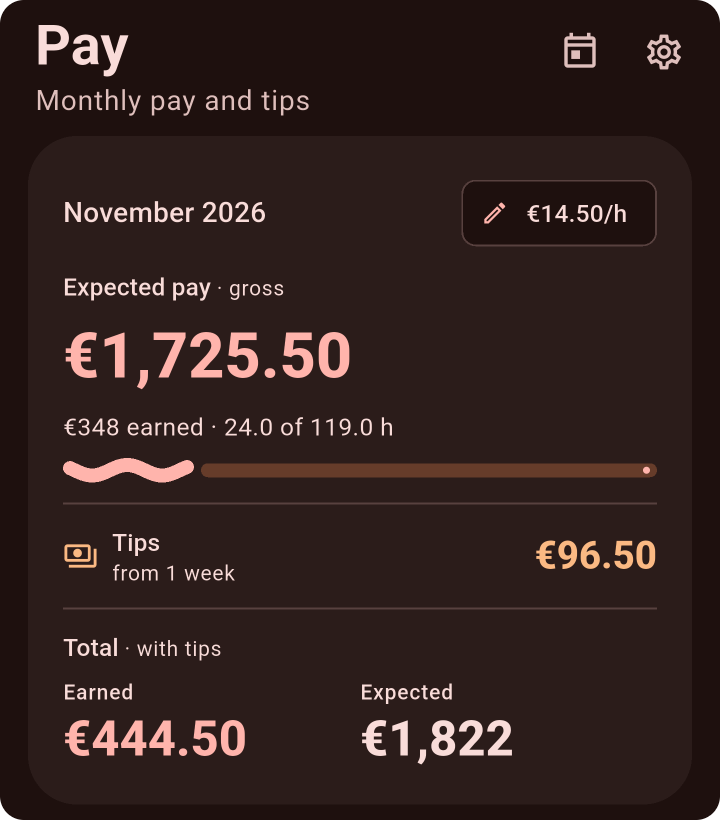
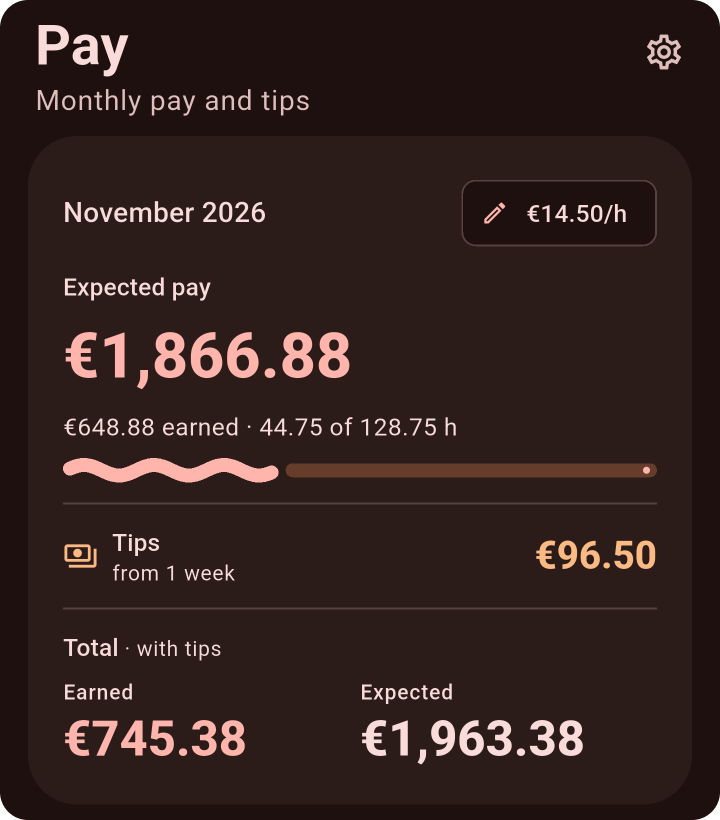
Docs: Refresh the README screenshots and texts for 1.8.1
All README screenshots were retaken on the emulator with 1.8.1 and new
demo data (this week, a running evening recording, a filled team week).
The shared plan picture is now the PNG the app shares rather than a
screenshot of the preview. A new screenshot shows "Hours per month".

The texts gain what 1.7.0 and 1.8.1 added: "Open shifts" hiding closed
shifts on Plan, "Staff needed" and the first-start setup for the team
planner, and the 30-minute update check. HANDOFF.md notes how the
screenshots were made and the traps (restaurant name, tips prompt).

diff --git a/README.md b/README.md
@@ -34,6 +34,7 @@ The screenshots show the English UI in dark mode with demo data.
 ### Plan shifts
 
 - Tap "Lunch" or "Evening" on a day to plan a shift with the default times: 12:00–16:00 and 17:30–23:00. Lunch ends at 15:30 when an evening shift follows. "+" adds a shift with other times.
+- "Open shifts" in Settings › Shifts says when the restaurant is open. Closed shifts don't show on Plan. The first-start setup asks for them too.
 - Planned shifts appear in a Google calendar the user picks, in a chosen colour. Anyone who shares that calendar sees them. The app writes through Android's own calendar, so it needs no Google login or API key.
 - A reminder comes 15 minutes before each shift, with a "Start recording" button. The lead time is a setting.
 
@@ -66,9 +67,9 @@ The screenshots show the English UI in dark mode with demo data.
 
 ### Team planner (optional)
 
-Off by default; turn it on in Settings › Features › "Team planner". It is for weeks when the user plans the shifts of the whole service team.
+Off by default; turn it on in Settings › Features › "Team planner" or in the first-start setup. It is for weeks when the user plans the shifts of the whole service team.
 
-1. Add the people. Mark experienced staff as "Core worker".
+1. Add the people. Mark experienced staff as "Core worker". How many people each shift needs is set in Settings › Shifts › "Staff needed" (0 means closed).
 2. Enter each person's answer for the week: "Can work" or "Can't work", per day or per shift, or "Away this week".
 3. "Fill" puts people into the shifts. Each shift gets one core worker first. The other places go to people who aren't core workers first, and to those with the fewest shifts.
 4. Change anything by hand, then "Share" sends the week as a picture to the team chat.
@@ -77,6 +78,10 @@ Off by default; turn it on in Settings › Features › "Team planner". It is fo
 
 <p align="center">
   <img src="docs/screenshots/team-share.png" width="640" alt="The shared shift plan picture for one week">
+</p>
+
+<p align="center">
+  <img src="docs/screenshots/team-hours.png" width="380" alt="Hours per month: each person's planned hours, with a bar for those with a monthly limit">
 </p>
 
 ### Colours
@@ -93,7 +98,7 @@ Off by default; turn it on in Settings › Features › "Team planner". It is fo
 
 - The restaurant's name is set in the setup. It goes into the calendar events' location, the export and the team plan picture.
 - Launcher icons in a few designs (a serving cloche by default, and some secret ones), each in three shapes, because launchers use different icon shapes: round, squircle and small squircle.
-- The app checks GitHub for a new release, shows what changed, downloads the APK and hands it to Android's installer. After the update it shows what's new once more; Settings › App update › "What's new" shows it again.
+- The app checks GitHub for a new release when it is opened (at most every 30 minutes), shows what changed, downloads the APK and hands it to Android's installer. After the update it shows what's new once more; Settings › App update › "What's new" shows it again.
 
 ## Install
 

diff --git a/docs/HANDOFF.md b/docs/HANDOFF.md
@@ -253,6 +253,12 @@ The developer designed new app icons, to move away from the restaurant's sign ov
 
 - The app looks for a new release on start and on resume at most every 30 minutes instead of every 6 hours (`updateCheckInterval` in `domain/app_update.dart`), so a release shows up soon after the app is next opened. Checked: analyze and tests; not checked with the fake release server or on a phone.
 
+## README refreshed on 2026-11-10 (after 1.8.1)
+
+- All screenshots retaken with 1.8.1 on the emulator: `home.png`, `plan.png`, `export.png`, `team.png` (full screens), `home-month.png`, `pay-month.png`, `themes.png`, and `team-share.png`, which is now the PNG the app shares (copied from `cache/team-plan-<week>.png` with `run-as`), not a screenshot of the preview. New: `team-hours.png` ("Hours per month").
+- README text: "Open shifts" on Plan, "Staff needed" and the first-start setup for the team planner, and the 30-minute update check. Everything else still matched the app.
+- Made like the seventh and twelfth sessions' (demo database through `run-as`, original restored afterwards). Demo "today" is Tue 2026-11-10 with an evening shift being recorded; the team answers are for next week (2026-11-16), the Team tab's home week, and the board was filled with "Fill". Set `restaurant` to '' in the demo data, or "AKAI" shows in the Export text and the picture's title (the README doesn't name it). Add a pool for yesterday, or Home shows "Add the tips" instead of the month card. The seed and crop scripts were again kept outside the repo.
+
 ## Open points (in rough priority)
 
 Done and removed on 2026-11-06, as the developer confirmed: the new icons and the release build checked on the Pixel and the Xiaomi; the Live Update and icon checks on the Pixel 7 Pro; the handover (M6) with the release key backed up, the GitHub secrets set, the old test install removed, and the app in daily use on the user's Xiaomi since 2026-11-04.
